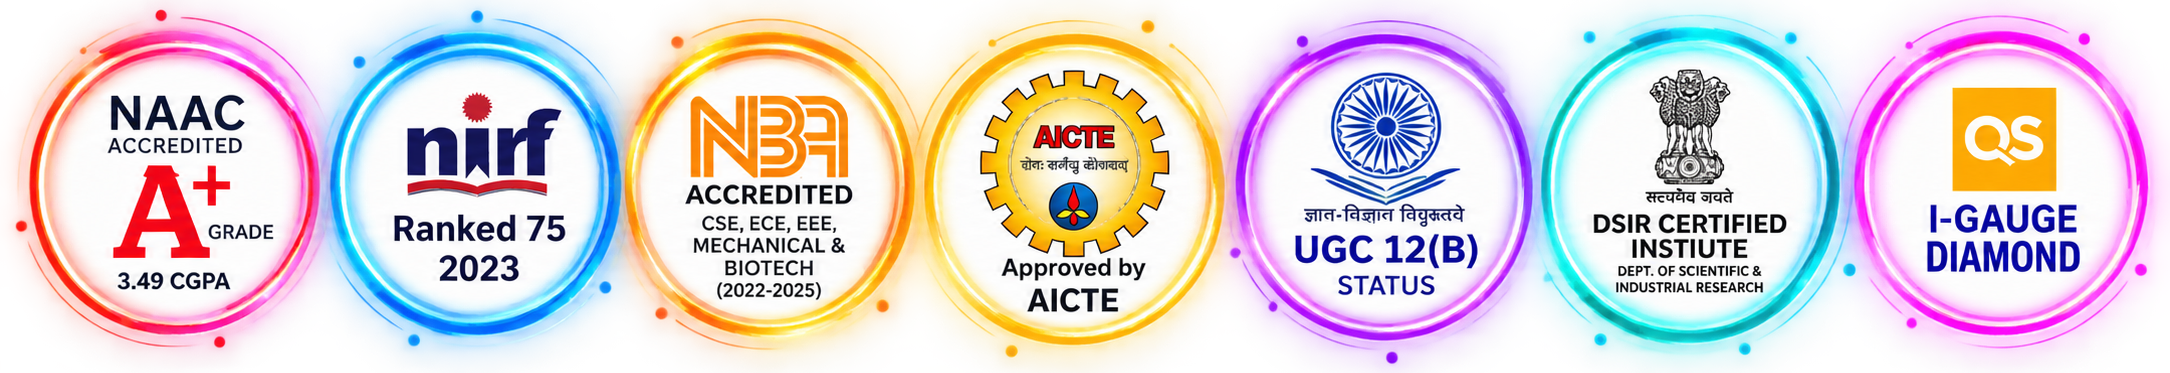
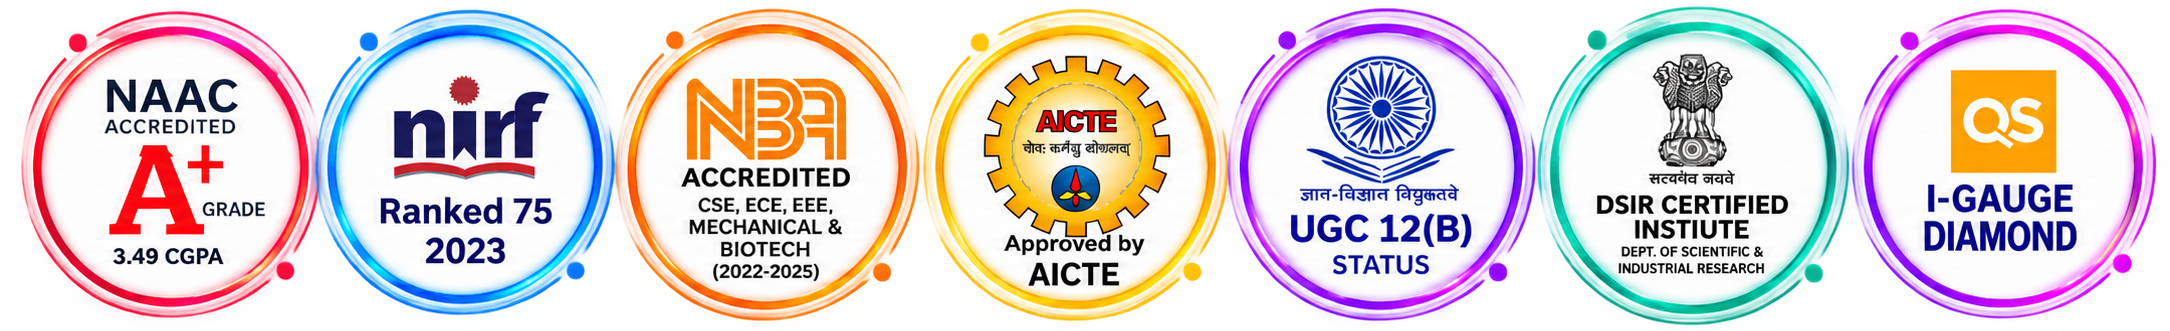
style(badges): swap in the reduced-glow accreditation badges (same trim treatment, crisper rings); not deployed yet

diff --git a/templates/landing.html b/templates/landing.html
@@ -410,7 +410,7 @@
     <div class="footer-badges">
       <div class="footer-h">Accreditation</div>
       <div class="badge-row">
-        <img src="{{ url_for('static', filename='img/badges.png') }}?v=3" alt="NAAC A+, NIRF, NBA, UGC, ABET accreditation badges"
+        <img src="{{ url_for('static', filename='img/badges.png') }}?v=4" alt="NAAC A+, NIRF, NBA, UGC, ABET accreditation badges"
              class="badge-strip" onerror="this.style.display='none'" />
       </div>
     </div>

diff --git a/templates/index.html b/templates/index.html
@@ -45,7 +45,7 @@
     </a>
     <div class="topbar-right">
       <div class="badges">
-        <img src="{{ url_for('static', filename='img/badges.png') }}?v=3"
+        <img src="{{ url_for('static', filename='img/badges.png') }}?v=4"
              alt="NAAC A+, NIRF, NBA, UGC, ABET accreditation badges"
              class="badge-strip" onerror="this.style.display='none'" />
       </div>
